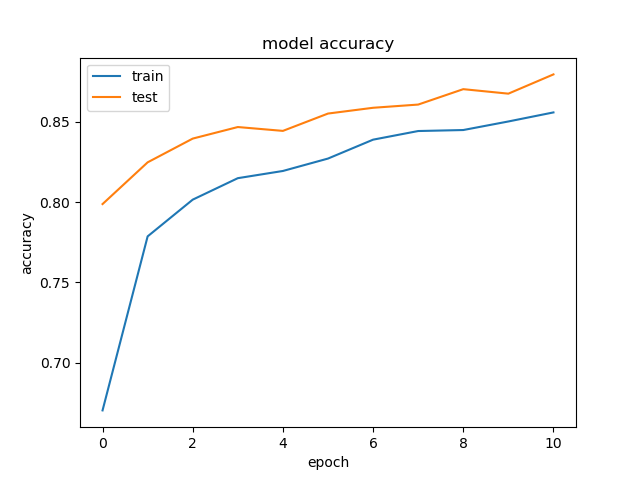
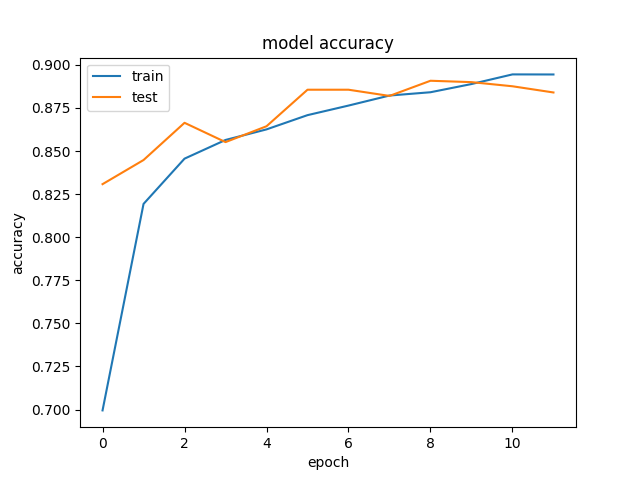
image uodate

diff --git a/mainCNNstatic.py b/mainCNNstatic.py
@@ -1,3 +1,4 @@
+
 # https://machinelearningmastery.com/predict-sentiment-movie-reviews-using-deep-learning/
 import os
 import numpy as np
@@ -9,7 +10,7 @@ from keras.callbacks import EarlyStopping, ModelCheckpoint, TensorBoard
 
 from keras.layers import Embedding, Conv1D, MaxPooling1D, Flatten, Dense, Input, GlobalMaxPooling1D, Dropout, Merge, BatchNormalization
 from keras.models import Model
-from keras import optimizers, regularizers
+from keras import optimizers
 
 import matplotlib.pyplot as plt
 
@@ -65,7 +66,7 @@ test_sequences = tokenizer.texts_to_sequences(test_text)
 word_index = tokenizer.word_index # dictionary mapping words (str) to their index starting from 0 (int)
 print('Found %s unique tokens.' % len(word_index))
 
-train_data = pad_sequences(train_sequences, maxlen=MAX_SEQUENCE_LENGTH) # each element of sequences is cropped or padded to reach maxlen 
+train_data = pad_sequences(train_sequences, maxlen=MAX_SEQUENCE_LENGTH) # each element of sequences is cropped or padded to reach maxlen 
 test_data = pad_sequences(test_sequences, maxlen=MAX_SEQUENCE_LENGTH)
 
 train_label = np.asarray(train_label)
@@ -94,28 +95,25 @@ y_test = test_label
 
 embedding_matrix = np.load('Res/embedding_matrix.npy')
 
-
-#All that the Embedding layer does is to map the integer inputs to the vectors found at the corresponding index in the embedding matrix, i.e. the sequence [1, 2] would be converted to [embeddings[1], embeddings[2]]. This means that the output of the Embedding layer will be a 3D tensor of shape (samples, sequence_length, embedding_dim).
-
 sequence_input = Input(shape=(MAX_SEQUENCE_LENGTH,), dtype='int32')
 
 embedding_layer = Embedding(len(word_index)+1, EMBEDDING_DIM, weights=[embedding_matrix], input_length=MAX_SEQUENCE_LENGTH, trainable=False)
 
 x = embedding_layer(sequence_input)
-x = Dropout(0.5)(x)
-x = Conv1D(200, 5, activation='relu')(x)
+x = Dropout(0.3)(x)
+x = Conv1D(25, 5, activation='relu')(x)
 x = MaxPooling1D(pool_size=2)(x)
-x = Dropout(0.5)(x)
-x = Conv1D(200, 5, activation='relu')(x)
+x = Dropout(0.3)(x)
+x = Conv1D(20, 5, activation='relu')(x)
 x = Flatten()(x)
-x = Dropout(0.5)(x)
-x = Dense(180,activation='sigmoid', kernel_regularizer=regularizers.l2(0.05))(x)
-x = Dropout(0.5)(x)
+x = Dropout(0.3)(x)
+x = Dense(120,activation='sigmoid')(x)
+x = Dropout(0.3)(x)
 prob = Dense(1, activation='sigmoid')(x)
 
 model = Model(sequence_input, prob)
 
-optimizer = optimizers.Adam(lr=0.00035)
+optimizer = optimizers.Adam(lr=0.001)
 model.compile(loss='binary_crossentropy',optimizer=optimizer, metrics=['accuracy', 'mae'])
 
 tensorboard = TensorBoard(log_dir='./Graph', histogram_freq=0, write_graph=True)
@@ -130,7 +128,7 @@ cp = ModelCheckpoint('bestModel.h5', monitor='val_acc', save_best_only=True, mod
 
 if do_early_stopping:
     print('using early stopping strategy')
-    history = model.fit(x_train, y_train, validation_data=(x_val, y_val), epochs=11, batch_size=64, callbacks = [early_stopping, tensorboard])
+    history = model.fit(x_train, y_train, validation_data=(x_val, y_val), epochs=12, batch_size=128, callbacks = [tensorboard])
 else:
     history = model.fit(x_train, y_train, validation_data=(x_val, y_val), epochs=10, batch_size=128)
 
@@ -144,3 +142,5 @@ print("mae: "+str(mae))
 model.save('my_model3.h5')
 
 plotting(history)
+
+
